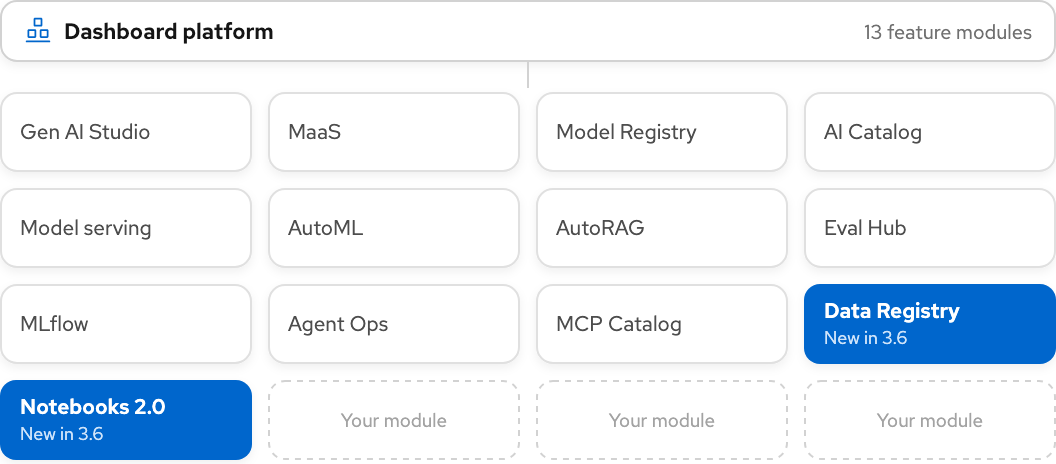
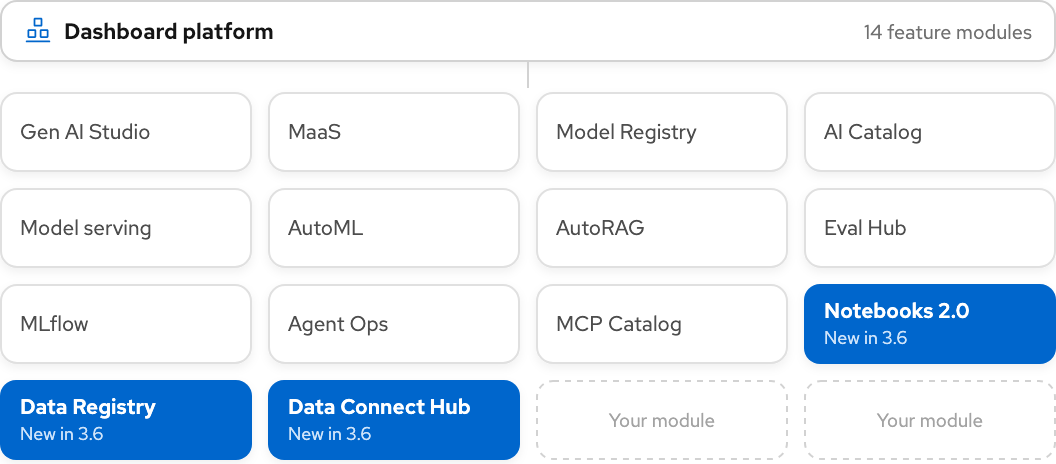
3.6: Data Connect Hub onboarded; community plugins framed as a first step; newsletter refresh

diff --git a/newsletter/rhoai-3.6/index.html b/newsletter/rhoai-3.6/index.html
@@ -8,7 +8,7 @@
 <title>RHOAI 3.6: ready for production</title>
 </head>
 <body style="margin:0;padding:0;background:#f2f2f2;">
-<div style="display:none;max-height:0;overflow:hidden;mso-hide:all;font-size:1px;line-height:1px;color:#f2f2f2;">A portal for model consumers, the first community plugins, a dashboard ready for OpenShift 5, an operator that tests every change before it ships, and 13 feature modules on one platform.&#847;&zwnj;&nbsp;&#847;&zwnj;&nbsp;&#847;&zwnj;&nbsp;</div>
+<div style="display:none;max-height:0;overflow:hidden;mso-hide:all;font-size:1px;line-height:1px;color:#f2f2f2;">A portal for model consumers, the first community plugins, a dashboard ready for OpenShift 5, an operator that tests every change before it ships, and 14 feature modules on one platform.&#847;&zwnj;&nbsp;&#847;&zwnj;&nbsp;&#847;&zwnj;&nbsp;</div>
 <table role="presentation" width="100%" cellpadding="0" cellspacing="0" border="0" bgcolor="#f2f2f2" style="background:#f2f2f2;">
 <tr><td align="center" style="padding:28px 8px 36px 8px;">
 <center>
@@ -28,7 +28,7 @@
       <p style="font-family:'Red Hat Text','RedHatText',Helvetica,Arial,sans-serif;margin:6px 0 0 0;font-size:13px;line-height:18px;color:#4d4d4d;">changes shipped</p>
     </td><td width="25%" valign="top" style="padding:22px 12px 20px 16px;border-left:1px solid #e0e0e0;">
       <div style="width:24px;height:3px;line-height:3px;font-size:0;background:#0066cc;border-radius:2px;margin:0 0 14px 0;">&nbsp;</div>
-      <p style="font-family:'Red Hat Display','RedHatDisplay',Helvetica,Arial,sans-serif;margin:0;font-size:34px;line-height:38px;font-weight:600;letter-spacing:-0.5px;color:#151515;">13</p>
+      <p style="font-family:'Red Hat Display','RedHatDisplay',Helvetica,Arial,sans-serif;margin:0;font-size:34px;line-height:38px;font-weight:600;letter-spacing:-0.5px;color:#151515;">14</p>
       <p style="font-family:'Red Hat Text','RedHatText',Helvetica,Arial,sans-serif;margin:6px 0 0 0;font-size:13px;line-height:18px;color:#4d4d4d;">feature modules on the platform</p>
     </td><td width="25%" valign="top" style="padding:22px 12px 20px 16px;border-left:1px solid #e0e0e0;">
       <div style="width:24px;height:3px;line-height:3px;font-size:0;background:#0066cc;border-radius:2px;margin:0 0 14px 0;">&nbsp;</div>
@@ -49,7 +49,7 @@
       <p style="font-family:'Red Hat Text','RedHatText',Helvetica,Arial,sans-serif;margin:0;font-size:14px;line-height:22px;color:#4d4d4d;text-align:left;">Operator changes are tested on a real cluster before they merge. Upgrade surprises are caught by us, not by customers.</p>
     </td><td width="33%" valign="top" style="padding:0 0px 0 0;">
       <p style="font-family:'Red Hat Display','RedHatDisplay',Helvetica,Arial,sans-serif;margin:0 0 6px 0;font-size:17px;line-height:22px;font-weight:600;color:#151515;">Faster for every team</p>
-      <p style="font-family:'Red Hat Text','RedHatText',Helvetica,Arial,sans-serif;margin:0;font-size:14px;line-height:22px;color:#4d4d4d;text-align:left;">Features plug into the platform as independent modules with their own release cadence. New teams are productive in hours.</p>
+      <p style="font-family:'Red Hat Text','RedHatText',Helvetica,Arial,sans-serif;margin:0;font-size:14px;line-height:22px;color:#4d4d4d;text-align:left;">Each feature runs as its own module, with its own pod and backend, so teams build and fix their area without touching anyone else's. A new module is onboarded in hours.</p>
     </td></tr></table></td></tr>
 <tr><td style="font-size:0;line-height:0;height:64px;">&nbsp;</td></tr><tr><td style="padding:0 44px;"><p style="font-family:'Red Hat Text','RedHatText',Helvetica,Arial,sans-serif;margin:0 0 8px 0;font-size:13px;line-height:18px;font-weight:600;color:#0066cc;text-align:center;">What's new</p><h2 style="font-family:'Red Hat Display','RedHatDisplay',Helvetica,Arial,sans-serif;margin:0;font-size:30px;line-height:35px;font-weight:600;letter-spacing:-0.2px;color:#151515;text-align:center;">Shipped in 3.6.</h2></td></tr><tr><td style="font-size:0;line-height:0;height:28px;">&nbsp;</td></tr>
 <tr><td style="padding:0 32px;"><table role="presentation" width="100%" cellpadding="0" cellspacing="0" border="0" style="border-collapse:separate;margin-bottom:12px;"><tr>
@@ -66,10 +66,10 @@
   </tr></table><table role="presentation" width="100%" cellpadding="0" cellspacing="0" border="0" style="border-collapse:separate;margin-bottom:12px;"><tr>
     <td bgcolor="#f5f5f5" valign="top" style="background:#f5f5f5;border-radius:18px;padding:26px 24px 24px 24px;">
       
-      <p style="margin:0 0 12px 0;"><span style="font-family:'Red Hat Text','RedHatText',Helvetica,Arial,sans-serif;display:inline-block;font-size:12px;line-height:18px;font-weight:600;color:#004d99;background:#e0f0ff;border-radius:999px;padding:2px 10px;">First release</span></p>
+      <p style="margin:0 0 12px 0;"><span style="font-family:'Red Hat Text','RedHatText',Helvetica,Arial,sans-serif;display:inline-block;font-size:12px;line-height:18px;font-weight:600;color:#004d99;background:#e0f0ff;border-radius:999px;padding:2px 10px;">First step</span></p>
       
-      <h2 style="font-family:'Red Hat Display','RedHatDisplay',Helvetica,Arial,sans-serif;margin:0;font-size:22px;line-height:26px;font-weight:600;letter-spacing:-0.2px;color:#151515;text-align:left;">Community plugins. RHOAI, extended by others.</h2>
-      <p style="font-family:'Red Hat Text','RedHatText',Helvetica,Arial,sans-serif;margin:8px 0 0 0;font-size:14px;line-height:22px;color:#4d4d4d;text-align:left;">Until now, only Red Hat teams could add a page to the dashboard. In 3.6 partners and the community can too: a plugin is registered once, the operator validates it and federates it next to the built-in modules, and it appears in RHOAI under its own path. Each plugin is checked on its own, so one bad entry never takes the rest of the dashboard with it. This is the first release of the contract; 3.7 builds the full experience on top.</p>
+      <h2 style="font-family:'Red Hat Display','RedHatDisplay',Helvetica,Arial,sans-serif;margin:0;font-size:22px;line-height:26px;font-weight:600;letter-spacing:-0.2px;color:#151515;text-align:left;">Community plugins. A first step.</h2>
+      <p style="font-family:'Red Hat Text','RedHatText',Helvetica,Arial,sans-serif;margin:8px 0 0 0;font-size:14px;line-height:22px;color:#4d4d4d;text-align:left;">Until now, only Red Hat teams could add a page to the dashboard. 3.6 takes the first step towards opening it up: a minimal registration contract where a plugin is declared once, the operator validates it and federates it next to the built-in modules, and it appears in RHOAI under its own path. Each entry is checked on its own, so a bad one never affects the rest of the dashboard. It is an early foundation for experiments, not yet a supported plugin ecosystem; that is the work ahead.</p>
       <p style="font-family:'Red Hat Text','RedHatText',Helvetica,Arial,sans-serif;margin:14px 0 0 0;font-size:14px;line-height:20px;"><a href="https://github.com/opendatahub-io/odh-dashboard/pull/10044" style="color:#0066cc;text-decoration:none;">See the change&nbsp;&rsaquo;</a></p>
       <p style="margin:12px 0 0 0;line-height:16px;"><a href="https://redhat.atlassian.net/browse/RHAISTRAT-2430" style="font-family:'Red Hat Mono','RedHatMono',Menlo,Consolas,monospace;font-size:11px;color:#707070;text-decoration:none;">RHAISTRAT-2430</a></p>
       <div style="height:20px;line-height:20px;font-size:0;">&nbsp;</div><img src="./plugin-flow.png" width="528" alt="A community plugin is registered in a ConfigMap, validated by the Dashboard operator, merged into the federation config, and appears as a new entry in the RHOAI dashboard navigation." style="display:block;border:0;outline:none;width:100%;max-width:528px;height:auto;">
@@ -166,17 +166,17 @@
       <p style="font-family:'Red Hat Display','RedHatDisplay',Helvetica,Arial,sans-serif;margin:0 0 6px 0;font-size:17px;line-height:22px;font-weight:600;color:#151515;">Earlier, cheaper</p>
       <p style="font-family:'Red Hat Text','RedHatText',Helvetica,Arial,sans-serif;margin:0;font-size:14px;line-height:22px;color:#4d4d4d;text-align:left;">A failure in a pull request costs minutes. The same failure after GA costs an outage and a hotfix.</p>
     </td></tr></table></td></tr>
-<tr><td style="font-size:0;line-height:0;height:64px;">&nbsp;</td></tr><tr><td style="padding:0 44px;"><p style="font-family:'Red Hat Text','RedHatText',Helvetica,Arial,sans-serif;margin:0 0 8px 0;font-size:13px;line-height:18px;font-weight:600;color:#0066cc;text-align:center;">What we enabled</p><h2 style="font-family:'Red Hat Display','RedHatDisplay',Helvetica,Arial,sans-serif;margin:0;font-size:30px;line-height:35px;font-weight:600;letter-spacing:-0.2px;color:#151515;text-align:center;">More teams, more products, one platform.</h2><p style="font-family:'Red Hat Text','RedHatText',Helvetica,Arial,sans-serif;margin:12px auto 0 auto;font-size:16px;line-height:25px;color:#4d4d4d;text-align:center;">A platform team succeeds when others ship on top of it. In 3.6 two new feature teams joined, a new product was built from the same code, and onboarding became a matter of hours.</p></td></tr><tr><td style="font-size:0;line-height:0;height:28px;">&nbsp;</td></tr>
+<tr><td style="font-size:0;line-height:0;height:64px;">&nbsp;</td></tr><tr><td style="padding:0 44px;"><p style="font-family:'Red Hat Text','RedHatText',Helvetica,Arial,sans-serif;margin:0 0 8px 0;font-size:13px;line-height:18px;font-weight:600;color:#0066cc;text-align:center;">What we enabled</p><h2 style="font-family:'Red Hat Display','RedHatDisplay',Helvetica,Arial,sans-serif;margin:0;font-size:30px;line-height:35px;font-weight:600;letter-spacing:-0.2px;color:#151515;text-align:center;">More teams, more products, one platform.</h2><p style="font-family:'Red Hat Text','RedHatText',Helvetica,Arial,sans-serif;margin:12px auto 0 auto;font-size:16px;line-height:25px;color:#4d4d4d;text-align:center;">A platform team succeeds when others ship on top of it. In 3.6 three new modules joined, a new product was built from the same code, and onboarding became a matter of hours.</p></td></tr><tr><td style="font-size:0;line-height:0;height:28px;">&nbsp;</td></tr>
 <tr><td style="padding:0 32px;"><table role="presentation" width="100%" cellpadding="0" cellspacing="0" border="0" style="border-collapse:separate;margin-bottom:12px;"><tr>
     <td bgcolor="#f5f5f5" valign="top" style="background:#f5f5f5;border-radius:18px;padding:26px 24px 24px 24px;">
       
       
       
-      <h2 style="font-family:'Red Hat Display','RedHatDisplay',Helvetica,Arial,sans-serif;margin:0;font-size:20px;line-height:24px;font-weight:600;letter-spacing:-0.2px;color:#151515;text-align:left;">Two new modules joined.</h2>
-      <p style="font-family:'Red Hat Text','RedHatText',Helvetica,Arial,sans-serif;margin:8px 0 0 0;font-size:14px;line-height:22px;color:#4d4d4d;text-align:left;">Data Registry and Notebooks 2.0 now run on the platform with their own backend, their own pod and their own release cadence. Both followed the same onboarding path as the eleven before them.</p>
+      <h2 style="font-family:'Red Hat Display','RedHatDisplay',Helvetica,Arial,sans-serif;margin:0;font-size:20px;line-height:24px;font-weight:600;letter-spacing:-0.2px;color:#151515;text-align:left;">Three new modules joined.</h2>
+      <p style="font-family:'Red Hat Text','RedHatText',Helvetica,Arial,sans-serif;margin:8px 0 0 0;font-size:14px;line-height:22px;color:#4d4d4d;text-align:left;">Notebooks 2.0, Data Registry and Data Connect Hub now run on the platform, each with its own backend and its own pod. All three followed the same onboarding path as the eleven modules before them.</p>
       
       
-      <div style="height:20px;line-height:20px;font-size:0;">&nbsp;</div><img src="./module-grid.png" width="528" alt="The dashboard host with 13 feature modules plugged in; Data Registry and Notebooks 2.0 highlighted as new in 3.6, and empty slots for the next modules." style="display:block;border:0;outline:none;width:100%;max-width:528px;height:auto;">
+      <div style="height:20px;line-height:20px;font-size:0;">&nbsp;</div><img src="./module-grid.png" width="528" alt="The dashboard host with 14 feature modules plugged in; Notebooks 2.0, Data Registry and Data Connect Hub highlighted as new in 3.6, and empty slots for the next modules." style="display:block;border:0;outline:none;width:100%;max-width:528px;height:auto;">
     </td>
   </tr></table><table role="presentation" width="100%" cellpadding="0" cellspacing="0" border="0" style="border-collapse:separate;margin-bottom:12px;"><tr>
     <td bgcolor="#f5f5f5" valign="top" style="background:#f5f5f5;border-radius:18px;padding:26px 24px 24px 24px;">
@@ -217,8 +217,8 @@
       <p style="font-family:'Red Hat Display','RedHatDisplay',Helvetica,Arial,sans-serif;margin:0;font-size:16px;line-height:22px;font-weight:600;color:#151515;">An operator ready for the enterprise</p>
       <p style="font-family:'Red Hat Text','RedHatText',Helvetica,Arial,sans-serif;margin:3px 0 0 0;font-size:14px;line-height:22px;color:#4d4d4d;text-align:left;">After the cache redesign in 3.6: least-privilege access, real operational metrics, exact status reporting and high availability.</p>
     </td></tr><tr><td style="padding:14px 0;border-top:1px solid #e0e0e0;">
-      <p style="font-family:'Red Hat Display','RedHatDisplay',Helvetica,Arial,sans-serif;margin:0;font-size:16px;line-height:22px;font-weight:600;color:#151515;">Community plugins, the full experience</p>
-      <p style="font-family:'Red Hat Text','RedHatText',Helvetica,Arial,sans-serif;margin:3px 0 0 0;font-size:14px;line-height:22px;color:#4d4d4d;text-align:left;">Building on the 3.6 registration contract, so partners can publish and run their own modules in RHOAI without forking it.</p>
+      <p style="font-family:'Red Hat Display','RedHatDisplay',Helvetica,Arial,sans-serif;margin:0;font-size:16px;line-height:22px;font-weight:600;color:#151515;">Community plugins, beyond the first step</p>
+      <p style="font-family:'Red Hat Text','RedHatText',Helvetica,Arial,sans-serif;margin:3px 0 0 0;font-size:14px;line-height:22px;color:#4d4d4d;text-align:left;">Turning the 3.6 registration contract into supported plugin support, so partners can add their own modules to RHOAI without forking it.</p>
     </td></tr><tr><td style="padding:14px 0;border-top:1px solid #e0e0e0;">
       <p style="font-family:'Red Hat Display','RedHatDisplay',Helvetica,Arial,sans-serif;margin:0;font-size:16px;line-height:22px;font-weight:600;color:#151515;">MaaS Portal for AI Grid</p>
       <p style="font-family:'Red Hat Text','RedHatText',Helvetica,Arial,sans-serif;margin:3px 0 0 0;font-size:14px;line-height:22px;color:#4d4d4d;text-align:left;">The portal grows into the tenant experience for AI Grid, across clusters and with single sign-on.</p>

diff --git a/js/data/releases.js b/js/data/releases.js
@@ -114,12 +114,12 @@ export default [
     ],
     highlights: [
       {
-        title: 'Community plugins, first release',
+        title: 'Community plugins, a first step',
         area: 'modular-architecture',
         status: 'delivered',
         icon: 'puzzle-piece',
-        description: 'Partners and the community can now add pages to the dashboard. A plugin is registered in one ConfigMap entry; the Dashboard Operator validates each entry on its own, merges it into <code>federation-config</code> next to the built-in modules and serves it under <code>/community-plugins/&lt;name&gt;/</code>. A bad entry is skipped without affecting anything else.',
-        tags: ['Registration contract'],
+        description: 'A first step towards letting partners and the community add pages to the dashboard: a minimal registration contract, an early foundation rather than a supported plugin ecosystem. A plugin is registered in one ConfigMap entry; the Dashboard Operator validates each entry on its own, merges it into <code>federation-config</code> next to the built-in modules and serves it under <code>/community-plugins/&lt;name&gt;/</code>. A bad entry is skipped without affecting anything else.',
+        tags: ['Early foundation'],
         jira: ['RHAISTRAT-2430'],
       },
       {

diff --git a/js/data/modules.js b/js/data/modules.js
@@ -124,6 +124,17 @@ export default [
     jira: ['RHAISTRAT-2369'],
   },
   {
+    id: 'data-connect-hub',
+    name: 'Data Connect Hub',
+    icon: 'connected',
+    category: 'data',
+    status: 'in-progress',
+    release: '3.6',
+    bff: 'go',
+    description: 'Federated module for connecting data sources to RHOAI, with its own Go BFF and independent pod. Onboarded in RHOAI 3.6 with the standard <code>mod-arch</code> starter.',
+    repo: 'https://github.com/opendatahub-io/odh-dashboard/tree/main/packages/data-connect-hub',
+  },
+  {
     id: 'notebooks-v2',
     name: 'Notebooks v2',
     icon: 'develop-and-train',
